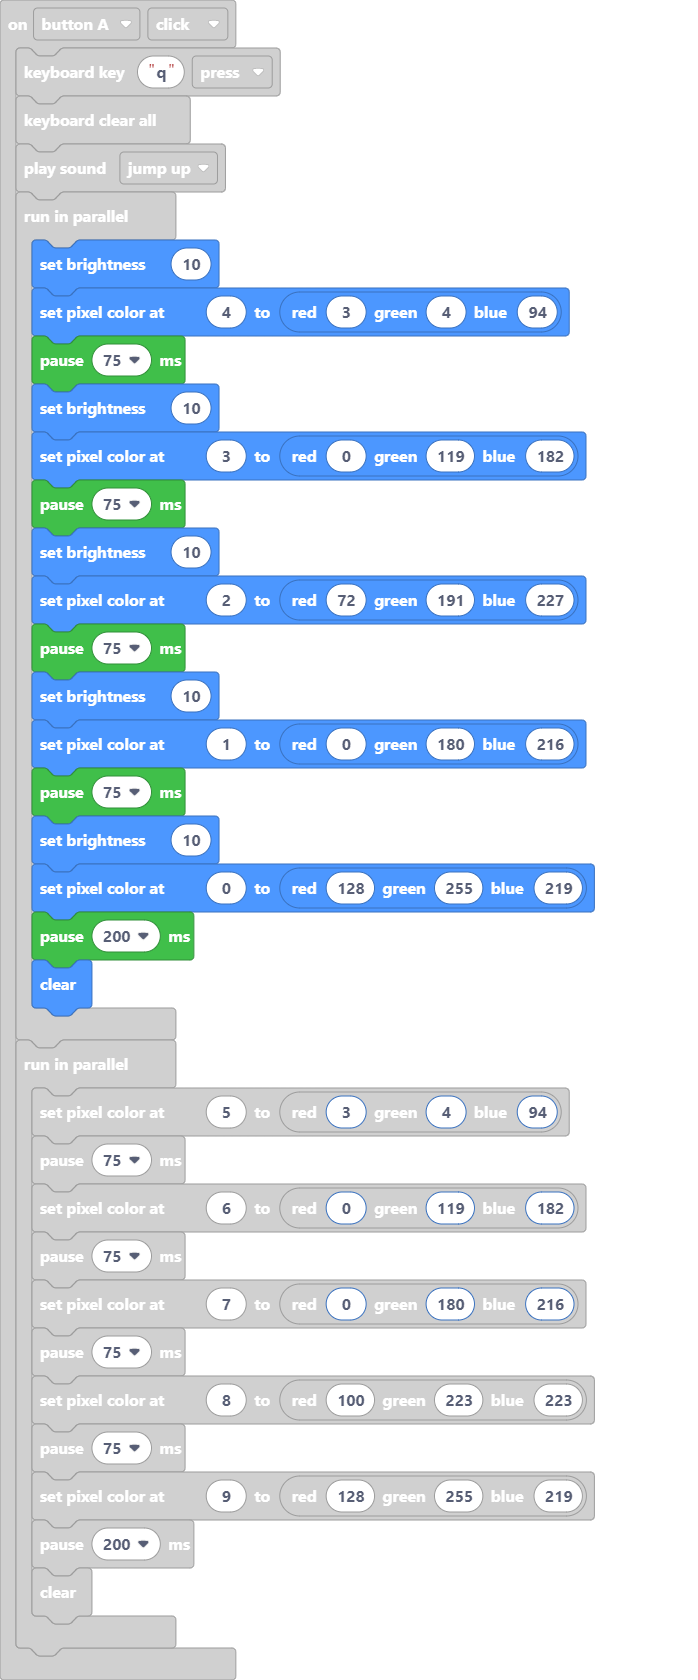
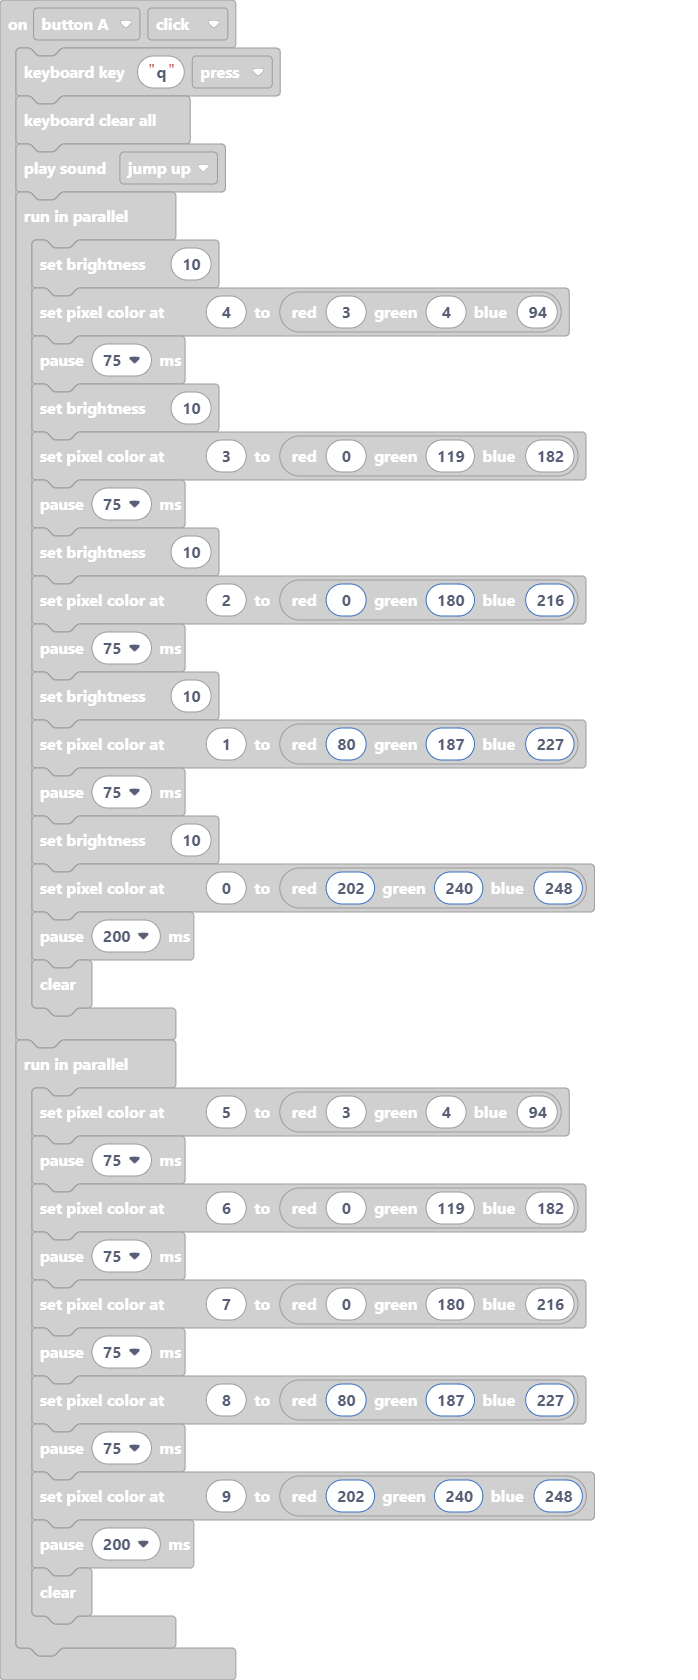
Update main.blocks, main.ts

diff --git a/main.ts b/main.ts
@@ -18,13 +18,13 @@ input.buttonA.onEvent(ButtonEvent.Click, function () {
         light.setPixelColor(3, light.rgb(0, 119, 182))
         pause(75)
         light.setBrightness(10)
-        light.setPixelColor(2, light.rgb(72, 191, 227))
+        light.setPixelColor(2, light.rgb(0, 180, 216))
         pause(75)
         light.setBrightness(10)
-        light.setPixelColor(1, light.rgb(0, 180, 216))
+        light.setPixelColor(1, light.rgb(80, 187, 227))
         pause(75)
         light.setBrightness(10)
-        light.setPixelColor(0, light.rgb(128, 255, 219))
+        light.setPixelColor(0, light.rgb(202, 240, 248))
         pause(200)
         light.clear()
     })
@@ -35,9 +35,9 @@ input.buttonA.onEvent(ButtonEvent.Click, function () {
         pause(75)
         light.setPixelColor(7, light.rgb(0, 180, 216))
         pause(75)
-        light.setPixelColor(8, light.rgb(100, 223, 223))
+        light.setPixelColor(8, light.rgb(80, 187, 227))
         pause(75)
-        light.setPixelColor(9, light.rgb(128, 255, 219))
+        light.setPixelColor(9, light.rgb(202, 240, 248))
         pause(200)
         light.clear()
     })
